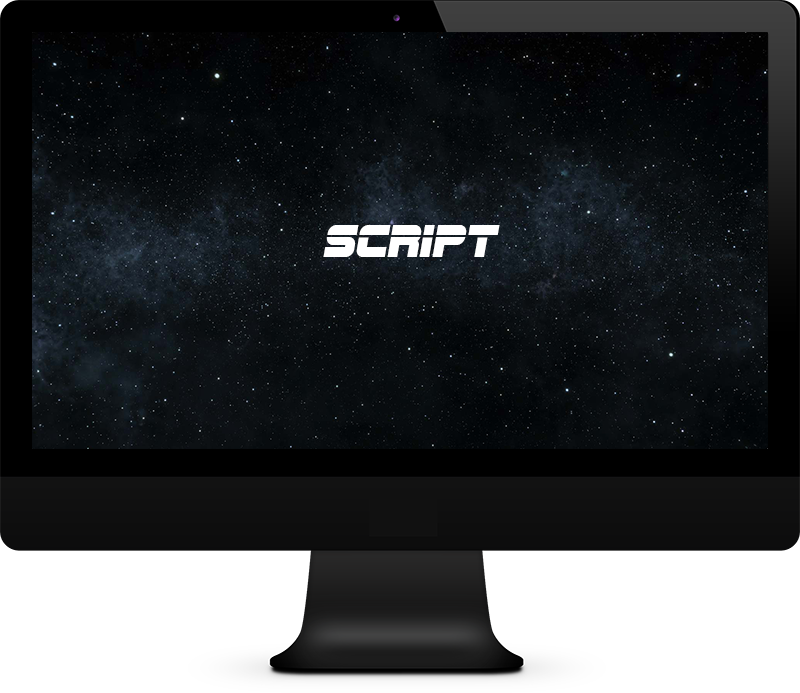
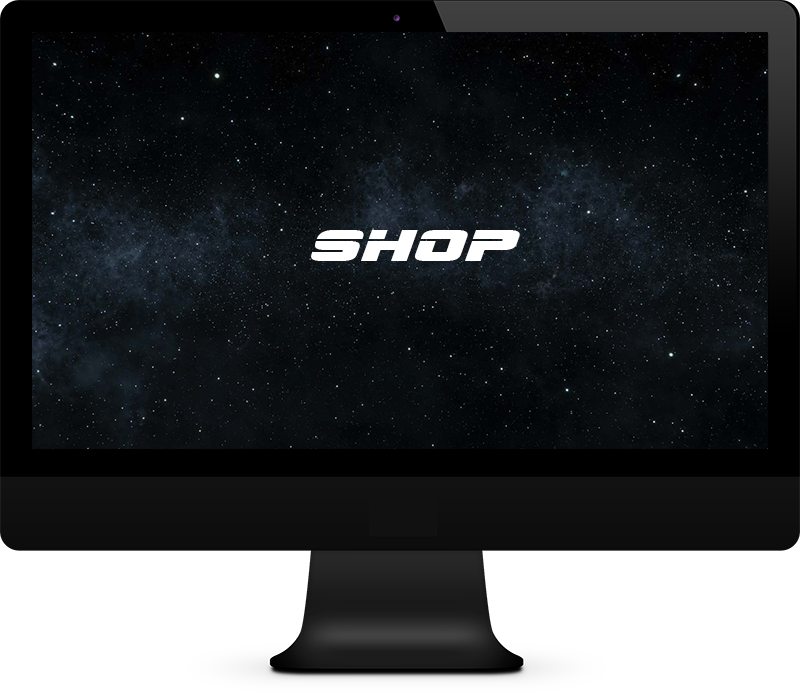
s

Changed region(s): [[0.375, 0.303, 0.6562, 0.3939]]

diff --git a/index.html b/index.html
@@ -77,7 +77,7 @@
 				<div class="grid-half">
 				
 				<a href="auth.html" class="to-video"><img src="images/personal.png" class="respimg transition" alt=""></a>
-				<h3><font color="red"</font>S</font>cript <font color="white"</font>Official</h3>
+				<h3><font color="red"</font>S</font>hop <font color="white"</font>Official</h3>
 				
 				</div>	
 			
